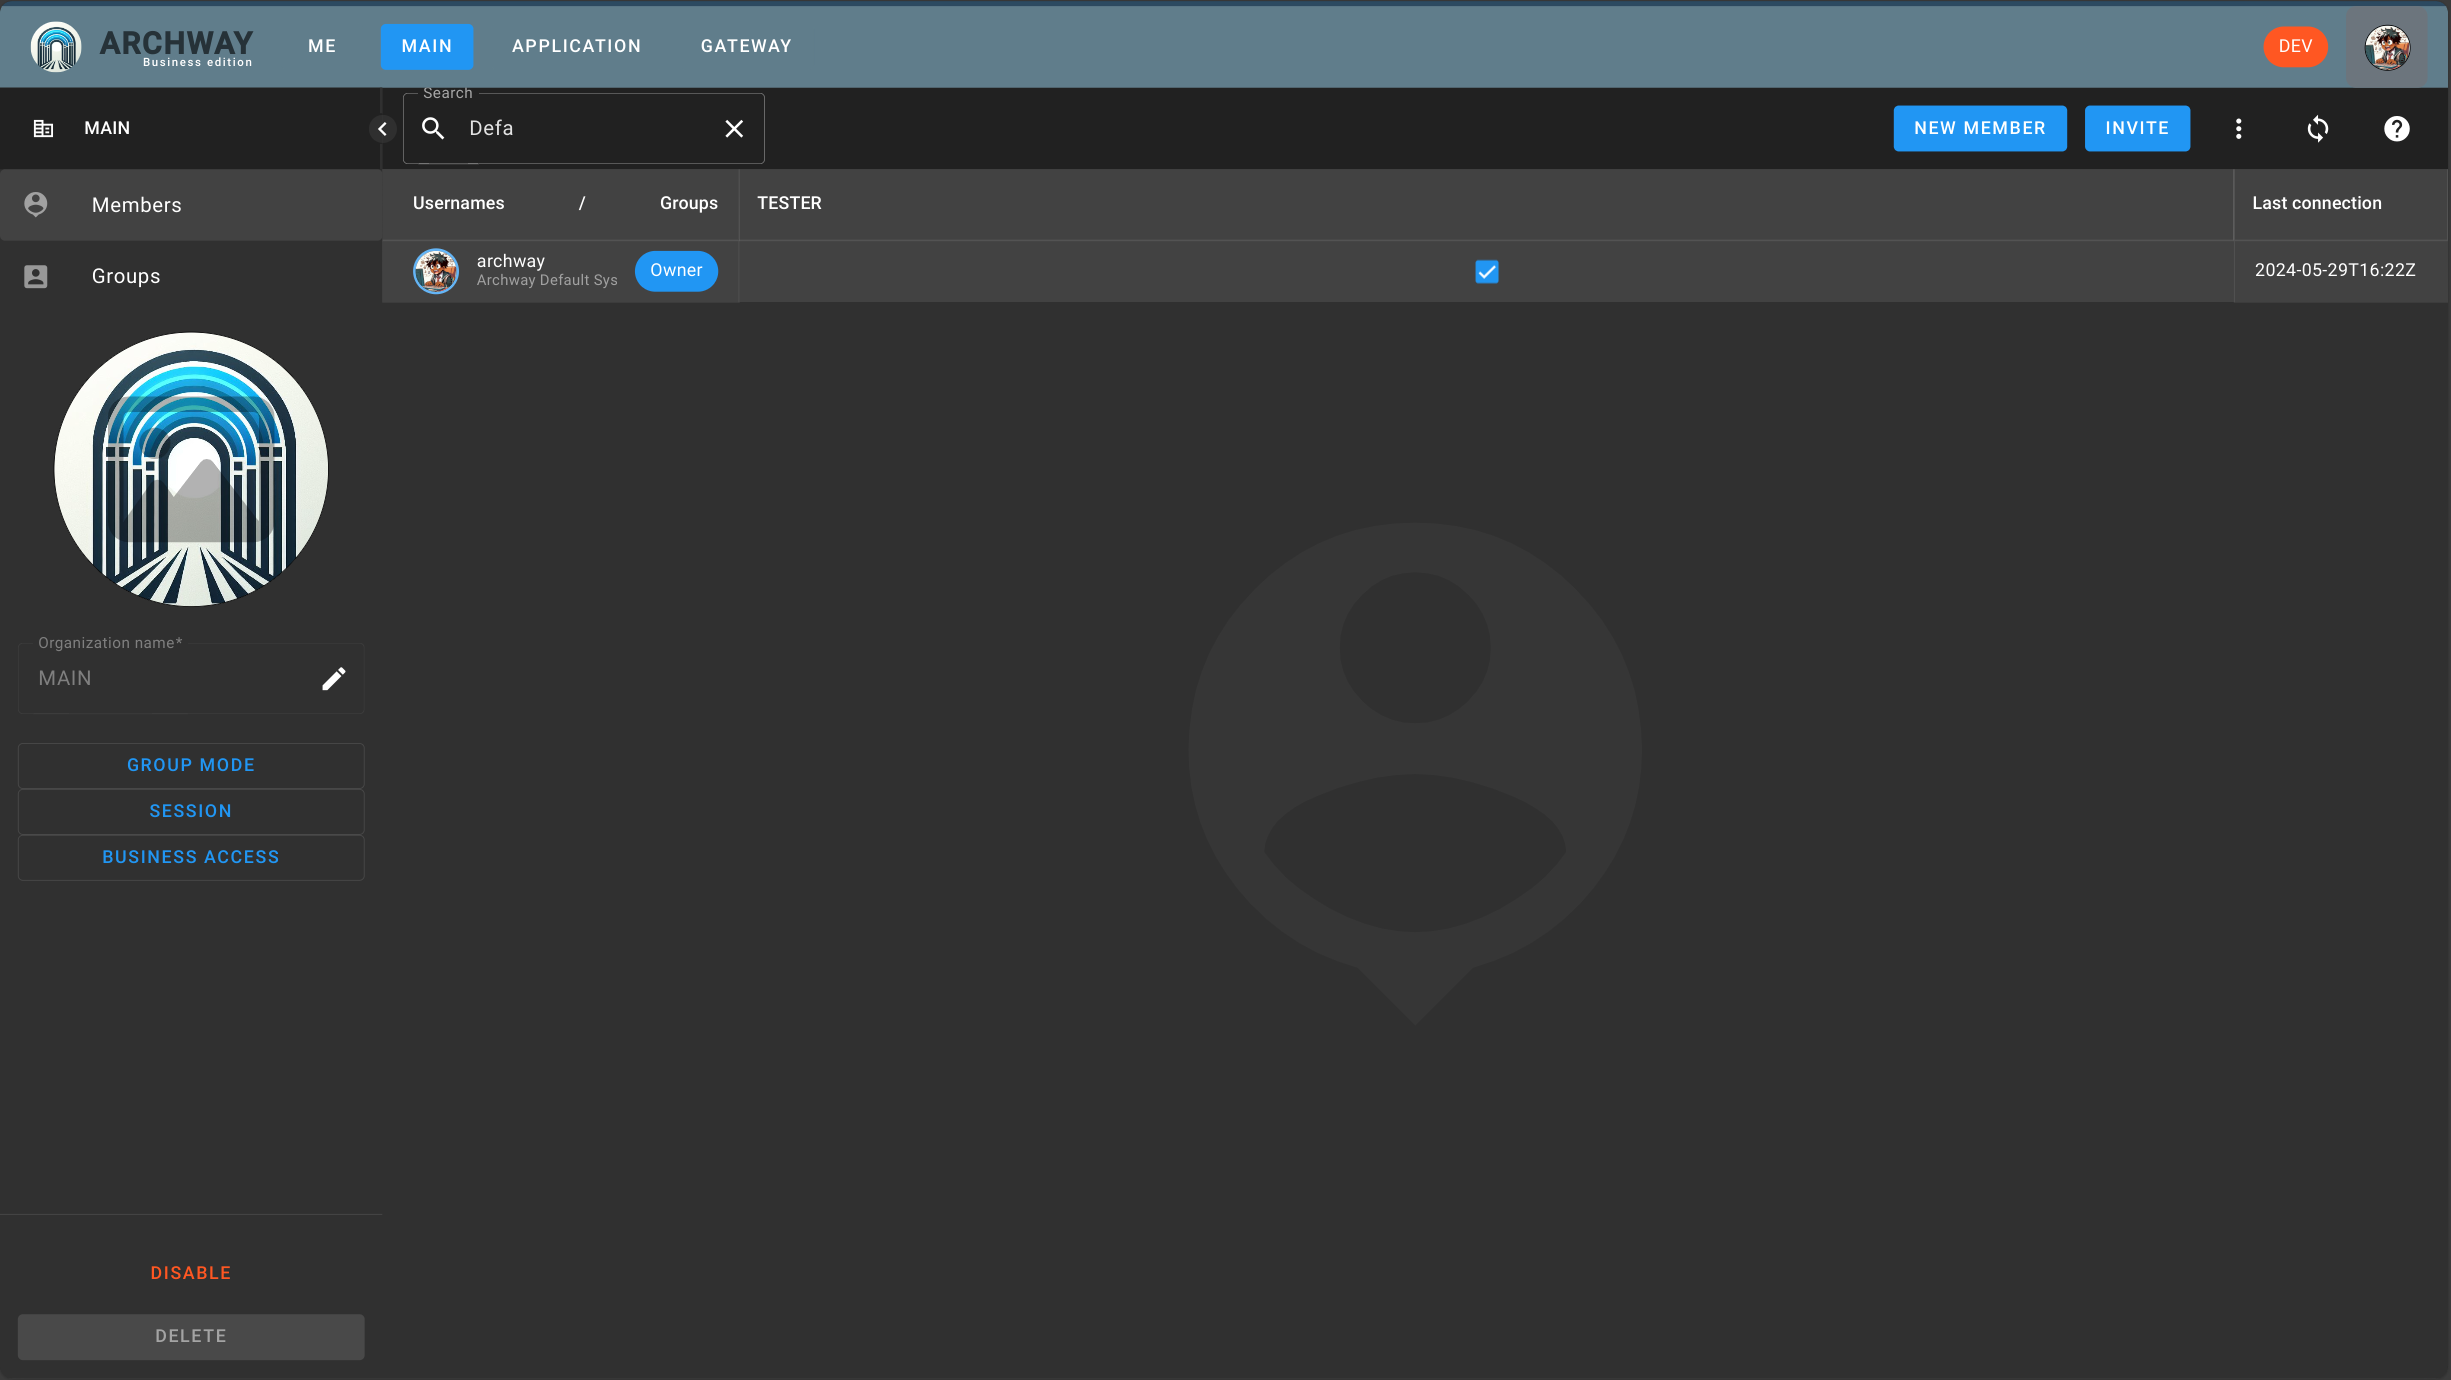
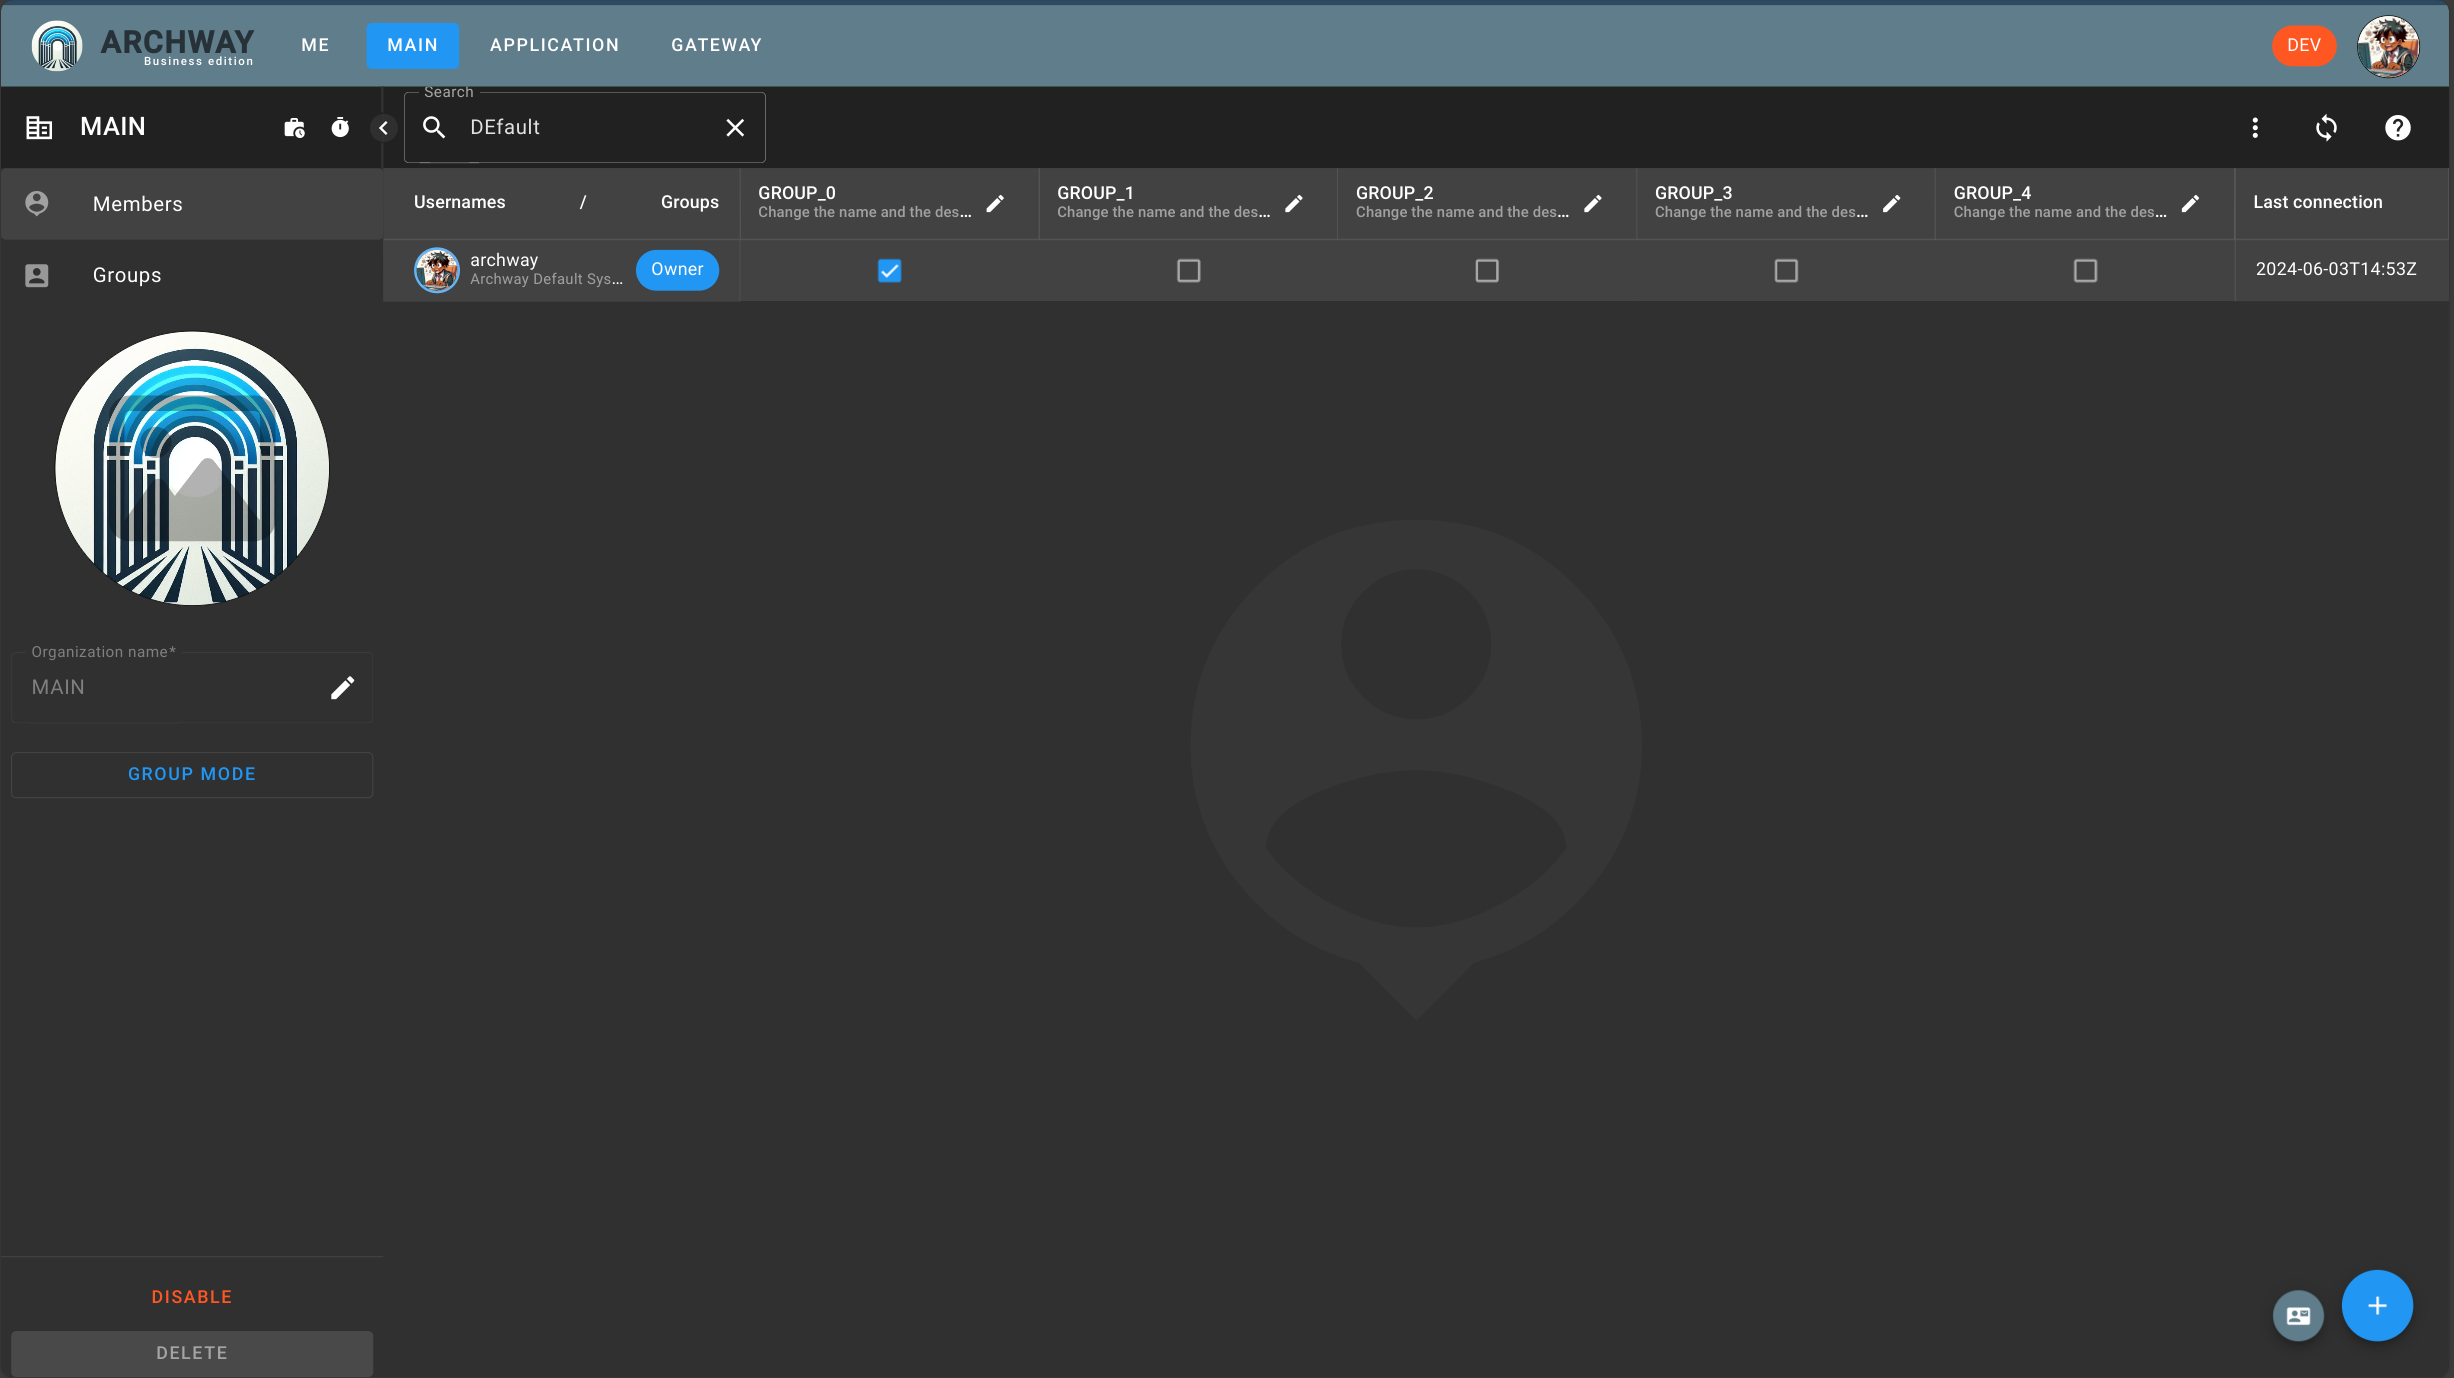
fix tuto avec auto create orga and groups

diff --git a/sidebars.ts b/sidebars.ts
@@ -19,6 +19,7 @@ const sidebars: SidebarsConfig = {
   tutoSidebar: [
     'tuto/contents',
     'tuto/install',
+    'tuto/setup',
     'tuto/role',
     {
       type: 'category',
@@ -41,7 +42,6 @@ const sidebars: SidebarsConfig = {
       collapsible: false,
       collapsed: false,
       items: [
-        'tuto/init/organization',
         'tuto/init/role-group',
         'tuto/init/group-user',
         'tuto/init/token'

diff --git a/docs/tuto/init/role-group.md b/docs/tuto/init/role-group.md
@@ -9,22 +9,17 @@ At this stage we have:
 
  - a role: `HTTPBIN_TESTER`
  - a route: `httpbin` secured by this role.
- - an organization: `MAIN`
+ - an organization: `MAIN` (auto created on setup phase)
+ - 5 groups: (auto created on setup phase) named `GROUP_0` to `GROUP_4`
  - And we are inside it
 
-We now need to create a group with the role `HTTPBIN_TESTER`.
-
-And to be in this group.
+On va maintenant ajouter au `GROUP_0` le rôle `HTTPBIN_TESTER` et devenir membre de ce groupe.
 
 Go to the `MAIN` page which allows you to administer the organization.
 
 Then select the `Groups` section.
 
-Finally, click on the `NEW GROUP` button. Create the group `TESTER`.
-
-![new-group](../img/new-group.png)
-
-And finally check the checkbox between `HTTPBIN_TESTER` and `TESTER`.
+Check the checkbox between `HTTPBIN_TESTER` and `GROUP_0`.
 
 ![role-in-group](../img/role-in-group.png)
 

diff --git a/docs/tuto/setup.md b/docs/tuto/setup.md
@@ -1,0 +1,23 @@
+---
+slug: setup
+title: Setup
+authors: fachache
+tags: []
+---
+
+After launching the application, `ARCHWAY` will self-initialize.
+
+But it requires configuring the `ARCHWAY` administrator.
+
+![setup](img/setup.png)
+
+Enter the name, email and password for the `ARCHWAY` administrator.
+
+:::info
+During initialization, an organization named `MAIN` is created with 5 predefined groups.
+This is for convenience. Rename the organization and groups as you see fit.
+:::
+
+## Connection
+
+![connection](img/connection.png)

diff --git a/docs/tuto/init/group-user.md b/docs/tuto/init/group-user.md
@@ -5,11 +5,11 @@ authors: fachache
 tags: []
 ---
 
-We now need to assign the `TESTER` group to the user.
+We now need to assign the `GROUP_0` group to the user.
 
 Still on the organization's administration page, go to the `Members` section.
 
-Next, check the box between `TESTER` and the user.
+Next, check the box between `GROUP_0` and the user.
 
 ![group-to-user](../img/group-to-user.png)
 
